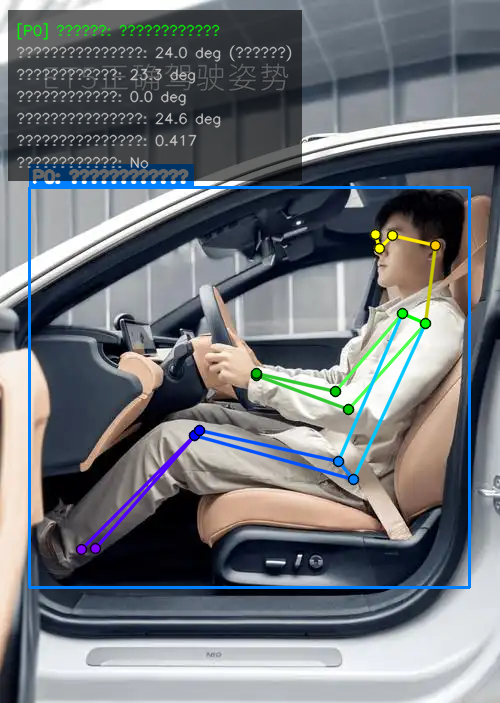
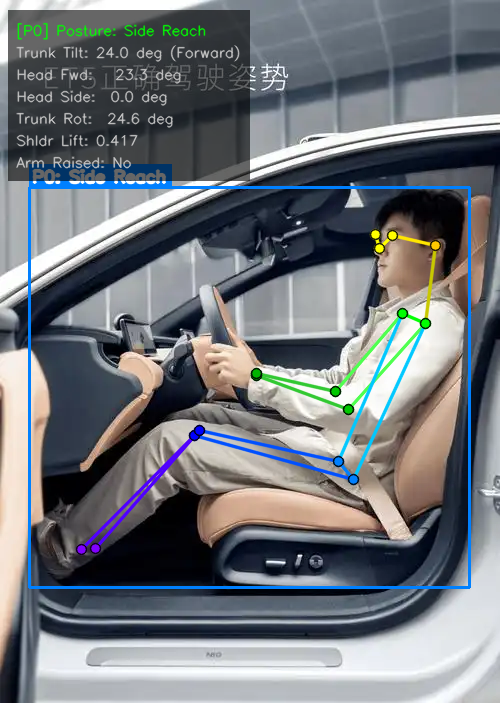
fix: 可视化中文改英文 + 导出两个 ONNX 模型
- utils/posture_rules.py: 所有坐姿标签改为英文 (e.g. Side Reach, Normal Driving)
- utils/visualization.py: 参数面板文字及 POSTURE_COLOR_MAP key 改为英文
- yolov8_pose/infer.py & yolo11_pose/infer.py: CSV fieldnames 同步修正
- yolov8_pose/yolov8s-pose.onnx: 导出 (opset 11, input 1x3x640x640, 44.6 MB)
- yolo11_pose/yolo11s-pose.onnx: 导出 (opset 11, input 1x3x640x640, 38.1 MB)
- output/: 更新英文标注结果图

Changed region(s): [[0.03, 0.0, 0.63, 0.2688]]

diff --git a/utils/posture_rules.py b/utils/posture_rules.py
@@ -41,9 +41,9 @@ KEYPOINT_NAMES = [
 
 # 10 种坐姿标签
 POSTURE_LABELS = [
-    "标准驾驶坐姿", "轻微前倾", "严重前倾", "后仰放松",
-    "侧身取物", "半躺休息", "低头玩手机", "睡姿",
-    "斜躺副驾", "直立办公",
+    "Normal Driving", "Slight Lean Fwd", "Heavy Lean Fwd", "Recline Relax",
+    "Side Reach", "Semi-Reclined", "Head Down Phone", "Sleeping",
+    "Lateral Recline", "Upright Working",
 ]
 
 # 参考向量（图像坐标系 Y 轴向下）
@@ -75,7 +75,7 @@ class PostureParams:
     r_arm_up: bool = False           # 右臂抬起
     head_backward_angle: float = 0.0 # 头后仰角（度）
     lateral_lean: float = 0.0        # 侧向倾斜量
-    posture_label: str = "未知"      # 最终判定的坐姿
+    posture_label: str = "Unknown"    # final posture label
     confidence_valid: Dict[str, bool] = field(default_factory=dict)
 
     def to_dict(self) -> dict:
@@ -89,7 +89,7 @@ class PostureParams:
             "手臂抬起": self.arm_raised,
             "头后仰角(度)": round(self.head_backward_angle, 2),
             "侧向倾斜量": round(self.lateral_lean, 3),
-            "判定坐姿": self.posture_label,
+            "Posture": self.posture_label,
         }
         return d
 
@@ -104,7 +104,7 @@ class PostureParams:
             f"  手臂抬起:   {'是' if self.arm_raised else '否'} (左:{self.l_arm_up} 右:{self.r_arm_up})",
             f"  侧向倾斜:   {self.lateral_lean:.3f}",
             f"  ──────────────────────────",
-            f"  判定坐姿:   【{self.posture_label}】",
+            f"  Posture:         [{self.posture_label}]",
         ]
         return "\n".join(lines)
 
@@ -224,9 +224,9 @@ class PostureClassifier:
         # 规则引擎（优先级从高到低）
         # ══════════════════════════════════════════════════════
 
-        # 规则 1：睡姿 — 头大幅度侧倾 > 35°
+        # Rule 1: Sleeping — large head side tilt > 35°
         if self._valid(conf, L_EAR, R_EAR) and params.head_side_angle > 35:
-            params.posture_label = "睡姿"
+            params.posture_label = "Sleeping"
             return params
 
         # 规则 2：半躺休息 / 斜躺副驾 — 靠背 ≥ 120° 或躯干后仰 > 35°
@@ -234,46 +234,46 @@ class PostureClassifier:
                     (params.trunk_backward and params.trunk_tilt > 35))
         if reclined and self._valid(conf, L_SHOULDER, R_SHOULDER, L_HIP, R_HIP):
             if params.lateral_lean > 0.15:
-                params.posture_label = "斜躺副驾"
+                params.posture_label = "Lateral Recline"
             else:
-                params.posture_label = "半躺休息"
+                params.posture_label = "Semi-Reclined"
             return params
 
         # 规则 3：侧身取物 — 躯干旋转 > 15° 且单侧肩膀抬高 > 20%
         if (self._valid(conf, L_SHOULDER, R_SHOULDER)
                 and params.trunk_rotate_angle > 15
                 and params.shoulder_lift_norm > 0.20):
-            params.posture_label = "侧身取物"
+            params.posture_label = "Side Reach"
             return params
 
         # 规则 4：低头玩手机 — 头前倾 > 25°
         if self._valid(conf, NOSE, L_SHOULDER, R_SHOULDER) and params.head_forward_angle > 25:
-            params.posture_label = "低头玩手机"
+            params.posture_label = "Head Down Phone"
             return params
 
         # 规则 5：严重前倾 — 躯干前倾 > 20°
         if (self._valid(conf, L_SHOULDER, R_SHOULDER, L_HIP, R_HIP)
                 and not params.trunk_backward and params.trunk_tilt > 20):
-            params.posture_label = "严重前倾"
+            params.posture_label = "Heavy Lean Fwd"
             return params
 
         # 规则 6：轻微前倾 — 躯干前倾 8°~20°
         if (self._valid(conf, L_SHOULDER, R_SHOULDER, L_HIP, R_HIP)
                 and not params.trunk_backward and 8 < params.trunk_tilt <= 20):
-            params.posture_label = "轻微前倾"
+            params.posture_label = "Slight Lean Fwd"
             return params
 
         # 规则 7：直立办公 — 背挺直（< 5°）且手臂抬起
         if params.trunk_tilt < 5 and params.arm_raised:
-            params.posture_label = "直立办公"
+            params.posture_label = "Upright Working"
             return params
 
         # 规则 8：后仰放松 — 头后仰 10°~25°，躯干直立 < 8°
         if self._valid(conf, NOSE, L_EAR, R_EAR, L_SHOULDER, R_SHOULDER):
             if 10 <= params.head_backward_angle <= 25 and params.trunk_tilt < 8:
-                params.posture_label = "后仰放松"
+                params.posture_label = "Recline Relax"
                 return params
 
-        # 规则 9（默认）：标准驾驶坐姿
-        params.posture_label = "标准驾驶坐姿"
+        # Rule 9 (default): Normal Driving
+        params.posture_label = "Normal Driving"
         return params

diff --git a/utils/visualization.py b/utils/visualization.py
@@ -55,19 +55,19 @@ LIMB_COLORS = {
     (L_KNEE, L_ANKLE): (255, 0, 80), (R_KNEE, R_ANKLE): (255, 0, 80),
 }
 
-# 坐姿 → 边框/文字颜色
+# Posture → bounding box / text color
 POSTURE_COLOR_MAP = {
-    "标准驾驶坐姿": (0, 255, 0),    # 绿
-    "轻微前倾":     (0, 220, 255),  # 黄
-    "严重前倾":     (0, 128, 255),  # 橙
-    "后仰放松":     (255, 255, 0),  # 青
-    "侧身取物":     (255, 128, 0),  # 浅蓝
-    "半躺休息":     (0, 0, 255),    # 红
-    "低头玩手机":   (0, 80, 255),   # 橙红
-    "睡姿":         (0, 0, 200),    # 深红
-    "斜躺副驾":     (128, 0, 255),  # 紫
-    "直立办公":     (255, 200, 100),# 浅蓝绿
-    "未知":         (180, 180, 180),
+    "Normal Driving":  (0, 255, 0),     # green
+    "Slight Lean Fwd": (0, 220, 255),   # yellow
+    "Heavy Lean Fwd":  (0, 128, 255),   # orange
+    "Recline Relax":   (255, 255, 0),   # cyan
+    "Side Reach":      (255, 128, 0),   # light blue
+    "Semi-Reclined":   (0, 0, 255),     # red
+    "Head Down Phone": (0, 80, 255),    # orange-red
+    "Sleeping":        (0, 0, 200),     # dark red
+    "Lateral Recline": (128, 0, 255),   # purple
+    "Upright Working": (255, 200, 100), # teal
+    "Unknown":         (180, 180, 180),
 }
 
 
@@ -168,13 +168,13 @@ class PoseVisualizer:
             return frame
 
         lines = [
-            f"[P{person_idx}] 坐姿: {params.posture_label}",
-            f"躯干前倾角: {params.trunk_tilt:.1f} deg ({'后仰' if params.trunk_backward else '前倾'})",
-            f"头前倾角: {params.head_forward_angle:.1f} deg",
-            f"头侧倾角: {params.head_side_angle:.1f} deg",
-            f"躯干旋转角: {params.trunk_rotate_angle:.1f} deg",
-            f"肩膀抬起量: {params.shoulder_lift_norm:.3f}",
-            f"手臂抬起: {'Yes' if params.arm_raised else 'No'}",
+            f"[P{person_idx}] Posture: {params.posture_label}",
+            f"Trunk Tilt: {params.trunk_tilt:.1f} deg ({'Backward' if params.trunk_backward else 'Forward'})",
+            f"Head Fwd:   {params.head_forward_angle:.1f} deg",
+            f"Head Side:  {params.head_side_angle:.1f} deg",
+            f"Trunk Rot:  {params.trunk_rotate_angle:.1f} deg",
+            f"Shldr Lift: {params.shoulder_lift_norm:.3f}",
+            f"Arm Raised: {'Yes' if params.arm_raised else 'No'}",
         ]
 
         font = cv2.FONT_HERSHEY_SIMPLEX

diff --git a/yolo11_pose/infer.py b/yolo11_pose/infer.py
@@ -251,7 +251,7 @@ def main():
             "帧序号", "人序号", "来源",
             "躯干前倾角(度)", "躯干后仰", "头前倾角(度)", "头侧倾角(度)",
             "躯干旋转角(度)", "肩膀抬起量(归一化)", "手臂抬起",
-            "头后仰角(度)", "侧向倾斜量", "判定坐姿",
+            "头后仰角(度)", "侧向倾斜量", "Posture",
         ]
         csv_writer = csv.DictWriter(csv_file, fieldnames=fieldnames)
         csv_writer.writeheader()

diff --git a/yolov8_pose/infer.py b/yolov8_pose/infer.py
@@ -251,7 +251,7 @@ def main():
             "帧序号", "人序号", "来源",
             "躯干前倾角(度)", "躯干后仰", "头前倾角(度)", "头侧倾角(度)",
             "躯干旋转角(度)", "肩膀抬起量(归一化)", "手臂抬起",
-            "头后仰角(度)", "侧向倾斜量", "判定坐姿",
+            "头后仰角(度)", "侧向倾斜量", "Posture",
         ]
         csv_writer = csv.DictWriter(csv_file, fieldnames=fieldnames)
         csv_writer.writeheader()
